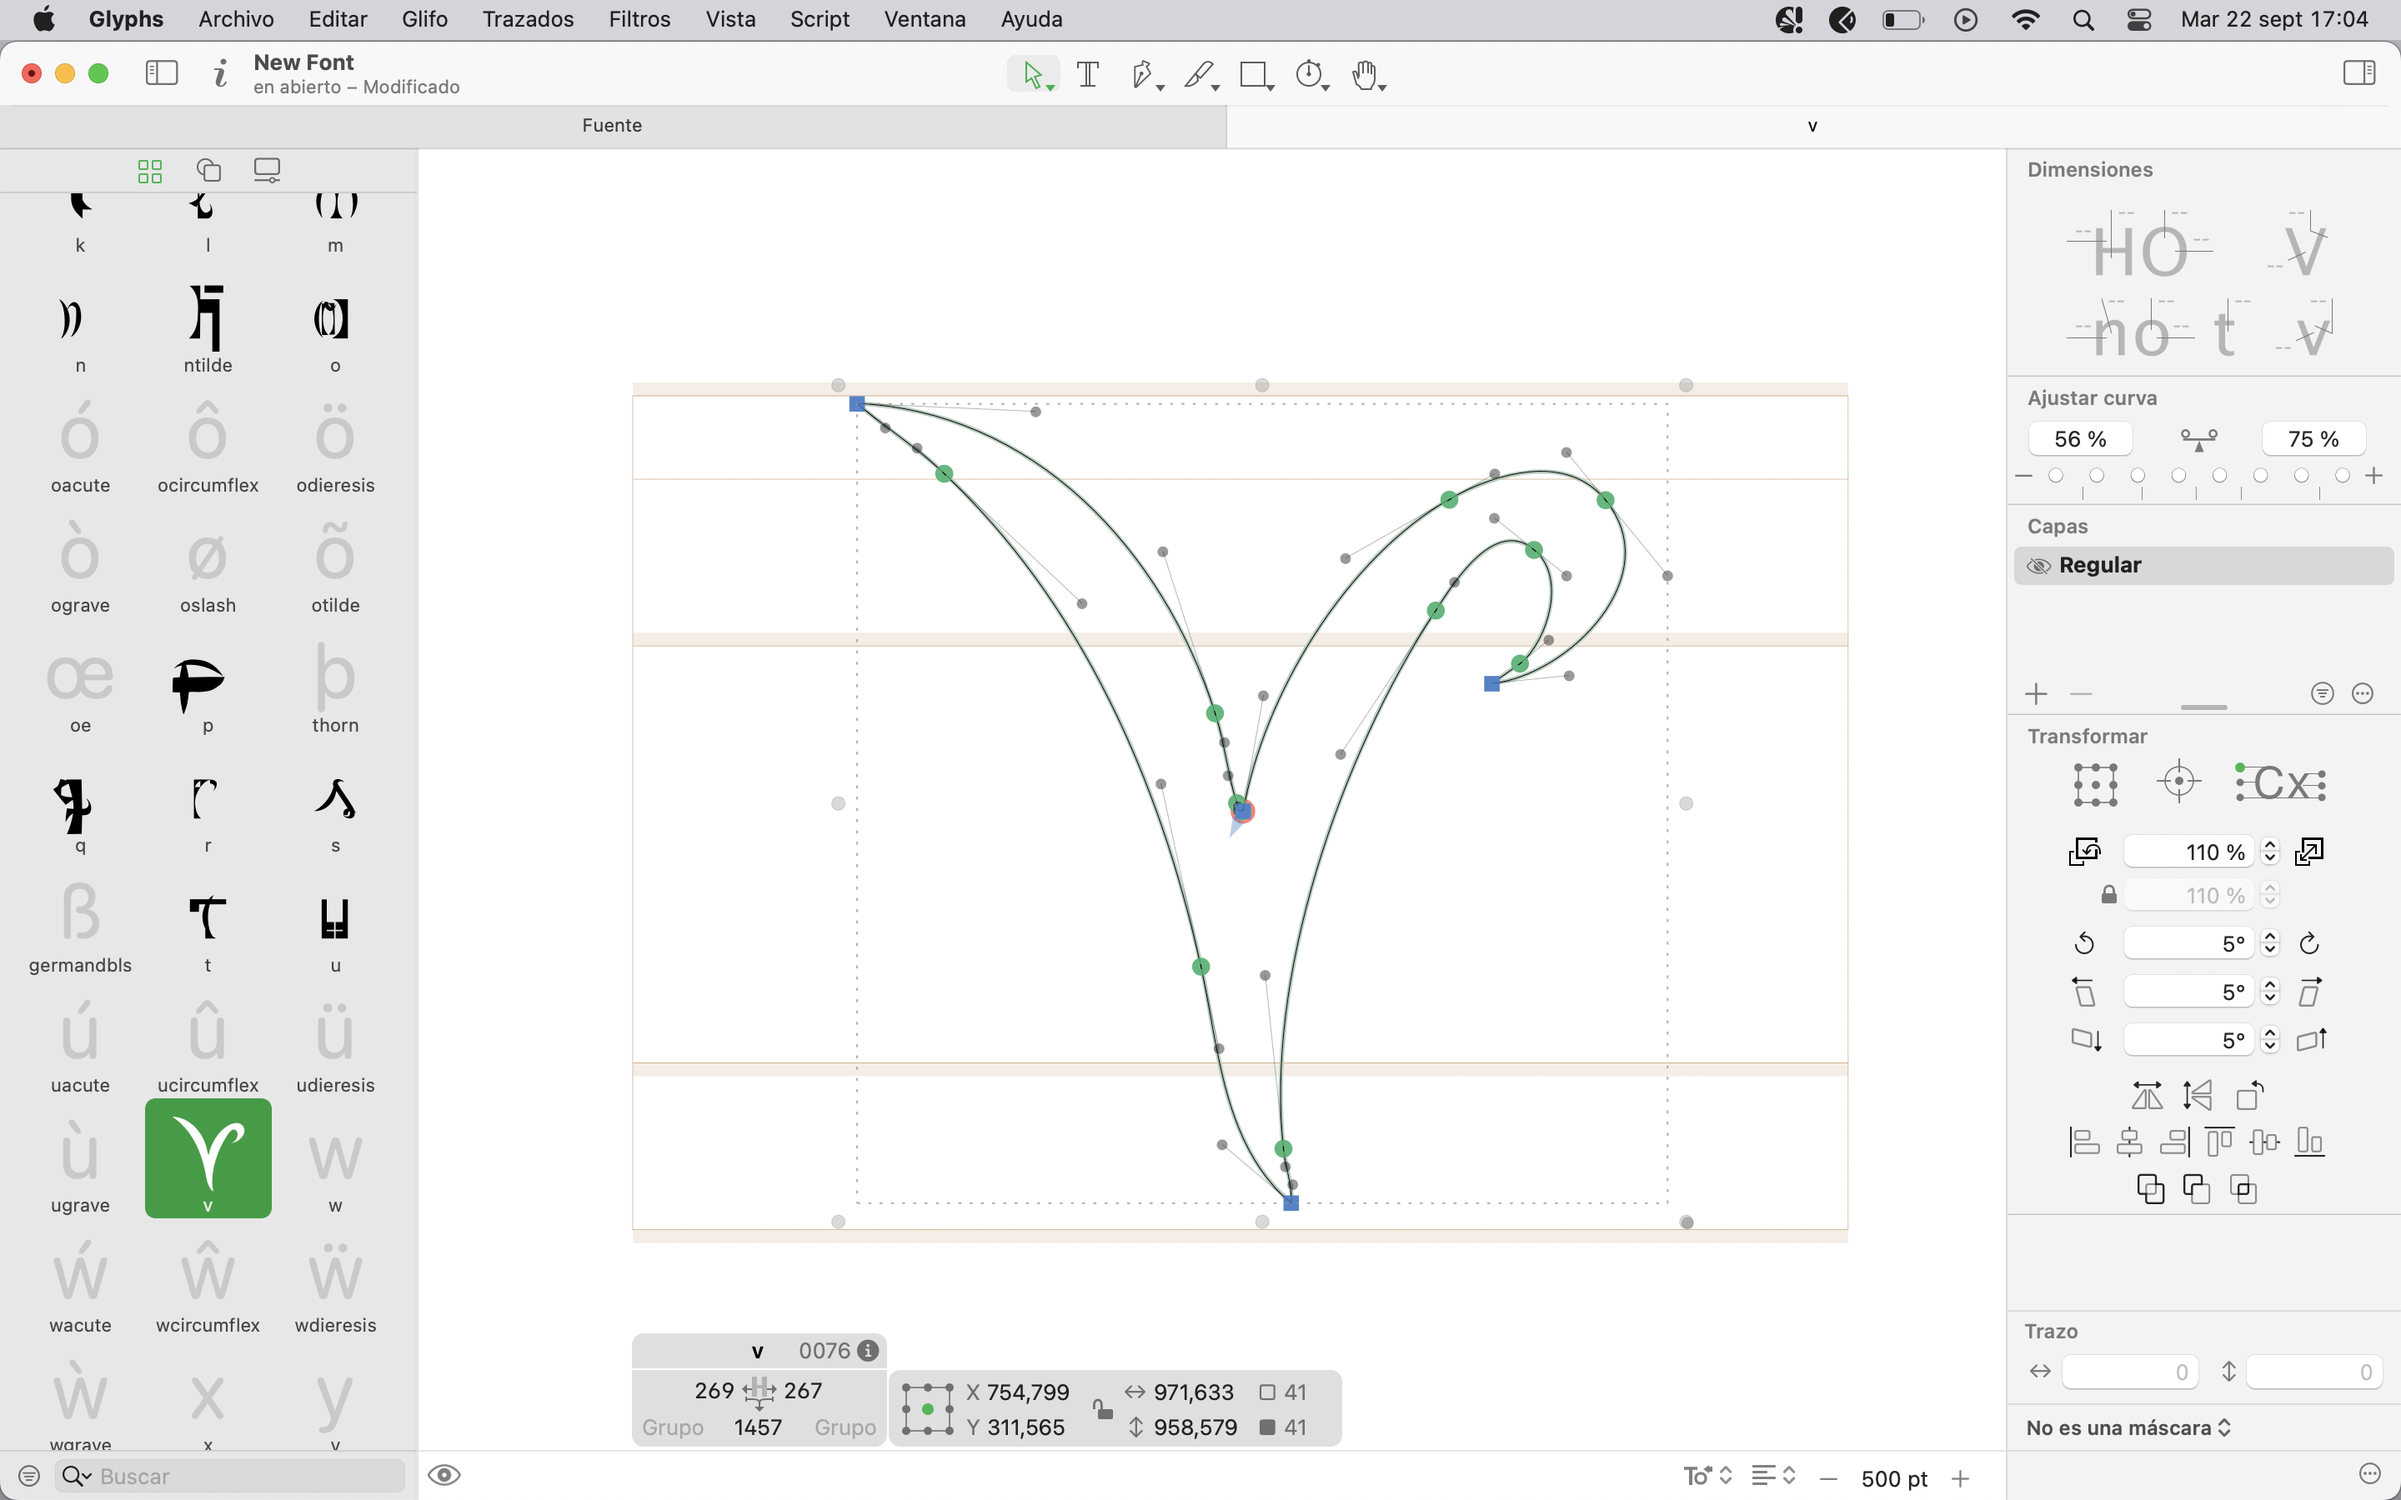
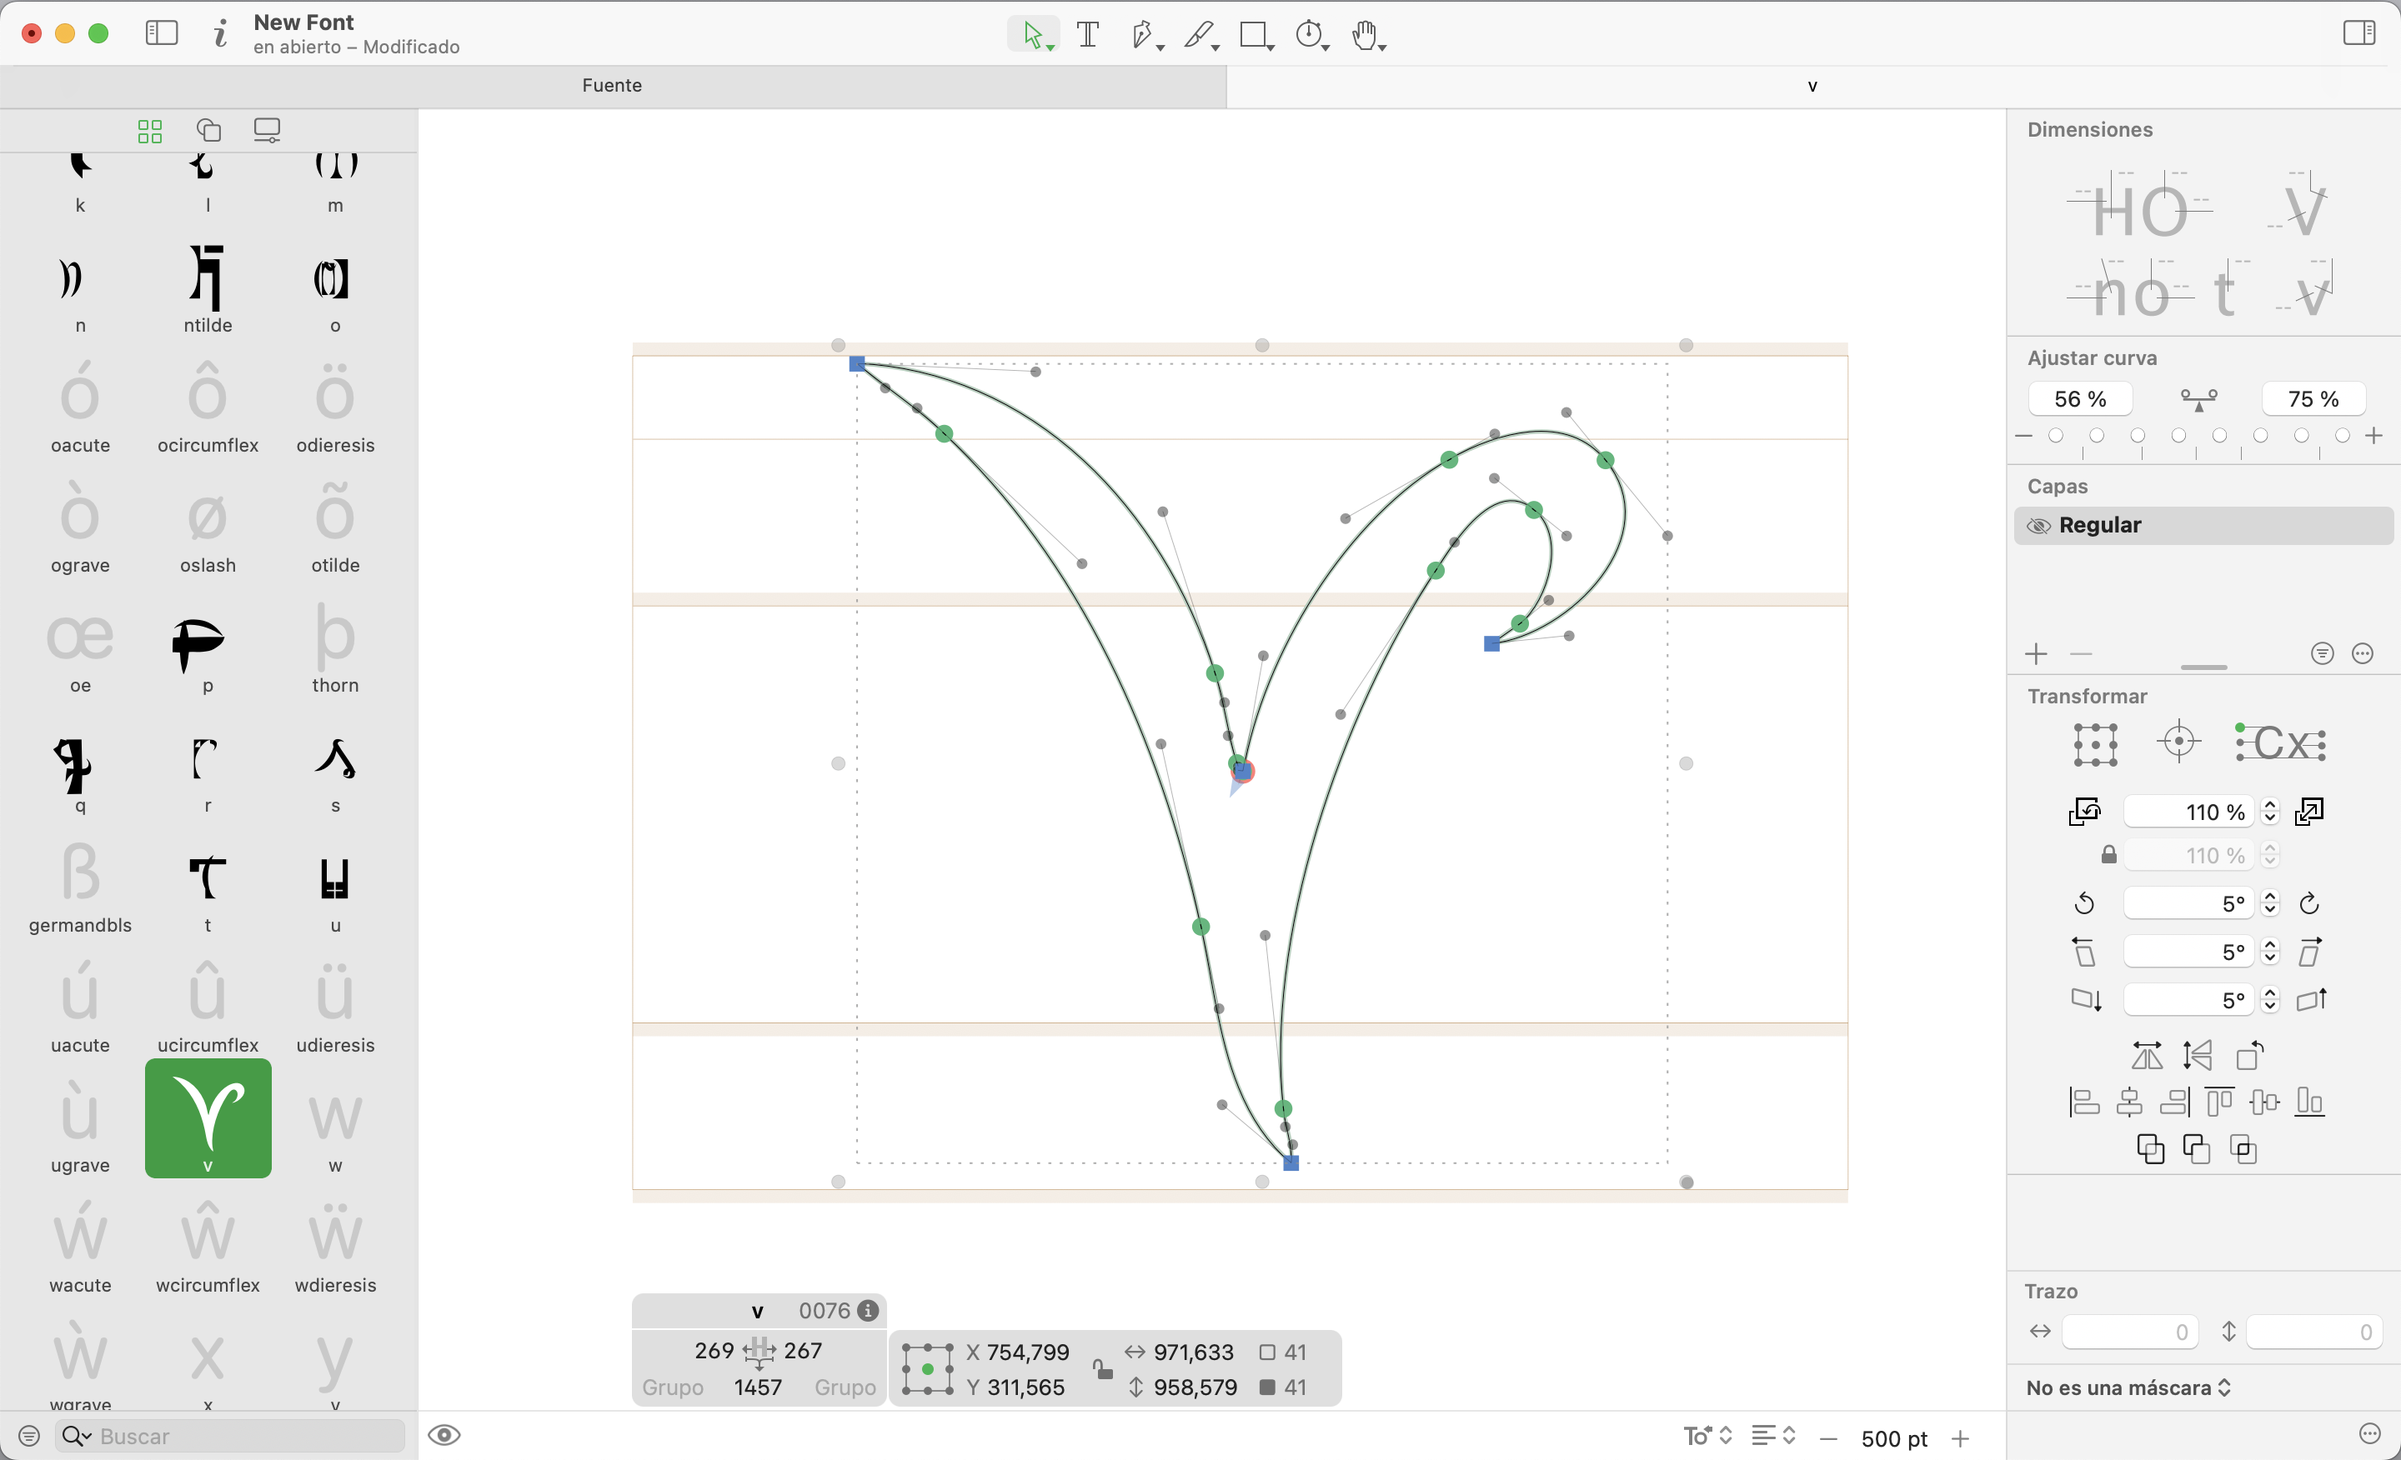
cambiar imagenes

diff --git a/index.html b/index.html
@@ -181,13 +181,13 @@
        <div class="item vertical">
         <img src="/.netlify/images?url=/img/24.png&w=1200&q=70" alt="Descripción de la imagen 2" />
         <div class="texto">
-          <h2>06/09 taller en las jornadas de encuentros de arte joven </h2>
+          <h2>06/09 taller en las jornadas de encuentros de arte joven</h2>
         </div>
       </div>
        <div class="item vertical">
         <img src="/.netlify/images?url=/img/25.png&w=1200&q=70" alt="Descripción de la imagen 2" />
         <div class="texto">
-          <h2>06/09 taller en las jornadas de encuentros de arte joven </h2>
+          <h2></h2>
         </div>
       </div>
        <div class="item horizontal">
@@ -203,9 +203,9 @@
         </div>
       </div>
       <div class="item cuadrado">
-        <video src="/.netlify/images?url=/img/28.png&w=1200&q=70" alt="Descripción de la imagen 2"></video>
+        <img src="/.netlify/images?url=/img/28.png&w=1200&q=70" alt="Descripción de la imagen 2"></img>
         <div class="texto">
-          <h2></h2>
+          <h2> </h2>
         </div>
       </div>
        <div class="item horizontal">
